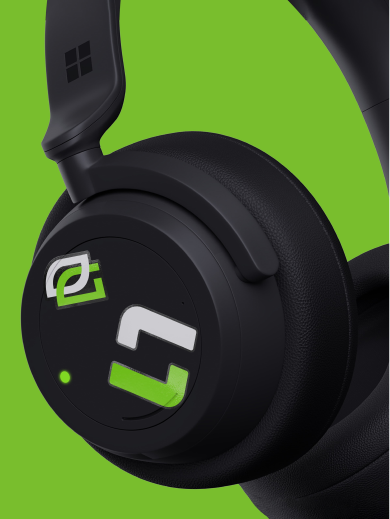
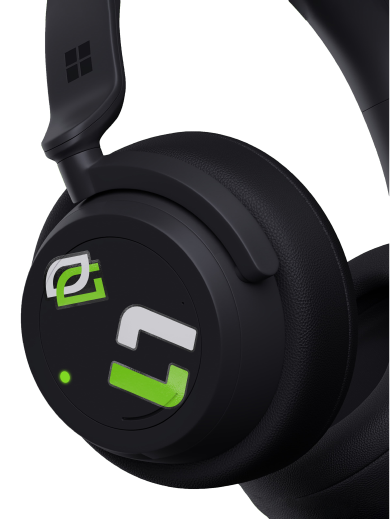
Removed green backgrounds

diff --git a/css/404.css b/css/404.css
@@ -12,9 +12,10 @@
   justify-content: space-between;
   flex: 1;
   height: 318px;
-  background-color: #79be2d;
+  background-color: var(--music-background);
   border-radius: 24px;
   outline: 1px solid var(--music-border);
+  transition: background-color 0.2s;
 }
 
 .link-text {
@@ -24,14 +25,8 @@
   padding: 0 0 24px 24px;
 }
 
-.link-text h1 {
-  color: #141414;
-  font-weight: 600;
-}
-
 .link-text h3 {
-  color: #141414b3;
-  font-weight: 600;
+  color: var(--font-2);
 }
 
 .link-img {
@@ -49,6 +44,10 @@
 
 .flow-img {
   padding: 24px;
+}
+
+.link-item:hover {
+  background-color: var(--music-hover);
 }
 
 .link-item:hover img,
